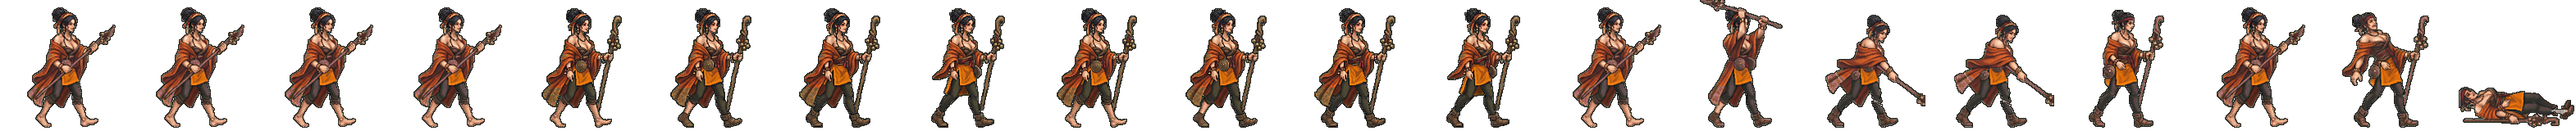
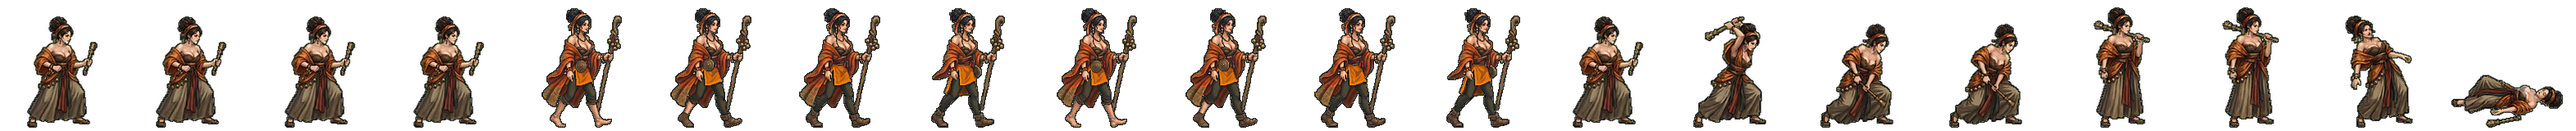
감실 띠: 동작 8컷만 새로 (제미나이 u/1 · 초상만) — 청동 방울 막대·방울 팔찌·주황 겉옷 (걷기는 그대로)
Claude-Session: https://claude.ai/code/session_01TRiuN9kn81xgdziumEqNAF

Changed region(s): [[0.593, 0.0, 1.0, 0.9688], [0.0, 0.0625, 0.2185, 0.9688]]

diff --git a/src/realm/data/spritePx.ts b/src/realm/data/spritePx.ts
@@ -1,2 +1,2 @@
 /** public/realm/anim-px/manifest.json 의 사본 — tools/sprite-normalize.mjs 가 만든다 (손으로 고치지 말 것). 칸 [가로, 세로] · feet = 발 줄(칸 위에서 y) · bodyPx = 서 있는 몸 키 */
-export const SPRITE_PX: Readonly<Record<string, { readonly cell: readonly [number, number]; readonly feet: number; readonly bodyPx: number; readonly kind: 'general' | 'soldier' | 'folk' | 'crowd'; readonly cells: number }>> = {"axe":{"cell":[166,128],"feet":126,"bodyPx":124,"kind":"soldier","cells":20},"bandit-chief":{"cell":[116,128],"feet":126,"bodyPx":117,"kind":"soldier","cells":20},"bandit-club":{"cell":[127,128],"feet":126,"bodyPx":116,"kind":"soldier","cells":20},"boat":{"cell":[269,128],"feet":126,"bodyPx":126,"kind":"soldier","cells":20},"bow":{"cell":[503,128],"feet":126,"bodyPx":127,"kind":"soldier","cells":20},"crossbow":{"cell":[614,128],"feet":126,"bodyPx":126,"kind":"soldier","cells":20},"gen-adogan":{"cell":[144,160],"feet":156,"bodyPx":70,"kind":"general","cells":20},"gen-alpyeong":{"cell":[144,160],"feet":156,"bodyPx":70,"kind":"general","cells":20},"gen-ara":{"cell":[160,160],"feet":156,"bodyPx":70,"kind":"general","cells":20},"gen-areum":{"cell":[160,160],"feet":156,"bodyPx":70,"kind":"general","cells":20},"gen-aryeong":{"cell":[208,160],"feet":156,"bodyPx":70,"kind":"general","cells":20},"gen-bakdal":{"cell":[160,160],"feet":156,"bodyPx":70,"kind":"general","cells":20},"gen-baram":{"cell":[176,160],"feet":156,"bodyPx":70,"kind":"general","cells":20},"gen-bdanbi":{"cell":[152,160],"feet":156,"bodyPx":70,"kind":"general","cells":20},"gen-beom":{"cell":[168,160],"feet":156,"bodyPx":70,"kind":"general","cells":20},"gen-beombal":{"cell":[216,160],"feet":156,"bodyPx":70,"kind":"general","cells":20},"gen-beomi":{"cell":[160,160],"feet":156,"bodyPx":70,"kind":"general","cells":20},"gen-bira":{"cell":[176,160],"feet":156,"bodyPx":70,"kind":"general","cells":20},"gen-biryu":{"cell":[160,160],"feet":156,"bodyPx":73,"kind":"general","cells":20},"gen-budeul":{"cell":[248,160],"feet":156,"bodyPx":70,"kind":"general","cells":20},"gen-byeol":{"cell":[176,160],"feet":156,"bodyPx":70,"kind":"general","cells":20},"gen-daemusin":{"cell":[152,160],"feet":156,"bodyPx":70,"kind":"general","cells":20},"gen-daeso":{"cell":[176,160],"feet":156,"bodyPx":70,"kind":"general","cells":20},"gen-dallae2":{"cell":[168,160],"feet":156,"bodyPx":70,"kind":"general","cells":20},"gen-dalli":{"cell":[152,160],"feet":156,"bodyPx":70,"kind":"general","cells":20},"gen-damul":{"cell":[152,160],"feet":156,"bodyPx":70,"kind":"general","cells":20},"gen-danbi":{"cell":[152,160],"feet":156,"bodyPx":70,"kind":"general","cells":20},"gen-dangung":{"cell":[192,160],"feet":156,"bodyPx":70,"kind":"general","cells":20},"gen-darae":{"cell":[152,160],"feet":156,"bodyPx":70,"kind":"general","cells":20},"gen-dokmudeom":{"cell":[176,160],"feet":156,"bodyPx":70,"kind":"general","cells":20},"gen-duman":{"cell":[248,160],"feet":156,"bodyPx":70,"kind":"general","cells":20},"gen-eomni":{"cell":[160,160],"feet":156,"bodyPx":70,"kind":"general","cells":20},"gen-eureum":{"cell":[144,160],"feet":156,"bodyPx":70,"kind":"general","cells":20},"gen-g-bow":{"cell":[144,160],"feet":156,"bodyPx":70,"kind":"general","cells":20},"gen-g-spear":{"cell":[208,160],"feet":156,"bodyPx":70,"kind":"general","cells":20},"gen-g-sword":{"cell":[192,160],"feet":156,"bodyPx":70,"kind":"general","cells":20},"gen-gaennae":{"cell":[232,160],"feet":156,"bodyPx":70,"kind":"general","cells":20},"gen-gamsil":{"cell":[160,160],"feet":156,"bodyPx":70,"kind":"general","cells":20},"gen-gaon":{"cell":[152,160],"feet":156,"bodyPx":70,"kind":"general","cells":20},"gen-geota":{"cell":[192,160],"feet":156,"bodyPx":69,"kind":"general","cells":20},"gen-geumbawi":{"cell":[160,160],"feet":156,"bodyPx":70,"kind":"general","cells":20},"gen-geumha":{"cell":[192,160],"feet":156,"bodyPx":72,"kind":"general","cells":20},"gen-goeun":{"cell":[144,160],"feet":156,"bodyPx":70,"kind":"general","cells":20},"gen-gom":{"cell":[168,160],"feet":156,"bodyPx":70,"kind":"general","cells":20},"gen-gomok":{"cell":[152,160],"feet":156,"bodyPx":70,"kind":"general","cells":20},"gen-gureum":{"cell":[216,160],"feet":156,"bodyPx":70,"kind":"general","cells":20},"gen-guryema":{"cell":[152,160],"feet":156,"bodyPx":70,"kind":"general","cells":20},"gen-gwaeyu":{"cell":[200,160],"feet":156,"bodyPx":70,"kind":"general","cells":20},"gen-haebi":{"cell":[152,160],"feet":156,"bodyPx":70,"kind":"general","cells":20},"gen-haedal":{"cell":[152,160],"feet":156,"bodyPx":70,"kind":"general","cells":20},"gen-haesol":{"cell":[168,160],"feet":156,"bodyPx":70,"kind":"general","cells":20},"gen-halla":{"cell":[176,160],"feet":156,"bodyPx":70,"kind":"general","cells":20},"gen-heo":{"cell":[144,160],"feet":156,"bodyPx":70,"kind":"general","cells":20},"gen-hneoul":{"cell":[152,160],"feet":156,"bodyPx":70,"kind":"general","cells":20},"gen-hogong":{"cell":[160,160],"feet":156,"bodyPx":70,"kind":"general","cells":20},"gen-hojin":{"cell":[152,160],"feet":156,"bodyPx":70,"kind":"general","cells":20},"gen-horselord":{"cell":[144,160],"feet":156,"bodyPx":70,"kind":"general","cells":20},"gen-hwalmi":{"cell":[192,160],"feet":156,"bodyPx":70,"kind":"general","cells":20},"gen-hyeokgeose":{"cell":[160,160],"feet":156,"bodyPx":70,"kind":"general","cells":20},"gen-hyeopbo":{"cell":[168,160],"feet":156,"bodyPx":70,"kind":"general","cells":20},"gen-irang":{"cell":[160,160],"feet":156,"bodyPx":70,"kind":"general","cells":20},"gen-jibaekho":{"cell":[224,160],"feet":156,"bodyPx":70,"kind":"general","cells":20},"gen-jinha":{"cell":[168,160],"feet":156,"bodyPx":70,"kind":"general","cells":20},"gen-jita":{"cell":[144,160],"feet":156,"bodyPx":70,"kind":"general","cells":20},"gen-jumong":{"cell":[144,160],"feet":156,"bodyPx":70,"kind":"general","cells":20},"gen-keundol":{"cell":[152,160],"feet":156,"bodyPx":70,"kind":"general","cells":20},"gen-maehwa":{"cell":[144,160],"feet":156,"bodyPx":70,"kind":"general","cells":20},"gen-maenun":{"cell":[144,160],"feet":156,"bodyPx":70,"kind":"general","cells":20},"gen-malgalgi":{"cell":[168,160],"feet":156,"bodyPx":70,"kind":"general","cells":20},"gen-mari":{"cell":[152,160],"feet":156,"bodyPx":70,"kind":"general","cells":20},"gen-maro":{"cell":[160,160],"feet":156,"bodyPx":70,"kind":"general","cells":20},"gen-maryeo":{"cell":[152,160],"feet":156,"bodyPx":70,"kind":"general","cells":20},"gen-mdallae":{"cell":[168,160],"feet":156,"bodyPx":70,"kind":"general","cells":20},"gen-mir":{"cell":[144,160],"feet":156,"bodyPx":70,"kind":"general","cells":20},"gen-mount":{"cell":[232,160],"feet":156,"bodyPx":73,"kind":"general","cells":20},"gen-mulbeom":{"cell":[160,160],"feet":156,"bodyPx":70,"kind":"general","cells":20},"gen-mulsae":{"cell":[168,160],"feet":156,"bodyPx":70,"kind":"general","cells":20},"gen-musoe":{"cell":[152,160],"feet":156,"bodyPx":70,"kind":"general","cells":20},"gen-noeul":{"cell":[160,160],"feet":156,"bodyPx":70,"kind":"general","cells":20},"gen-nuri":{"cell":[168,160],"feet":156,"bodyPx":70,"kind":"general","cells":20},"gen-ocheongan":{"cell":[168,160],"feet":156,"bodyPx":70,"kind":"general","cells":20},"gen-odi":{"cell":[152,160],"feet":156,"bodyPx":70,"kind":"general","cells":20},"gen-odogan":{"cell":[168,160],"feet":156,"bodyPx":70,"kind":"general","cells":20},"gen-ogan":{"cell":[152,160],"feet":156,"bodyPx":70,"kind":"general","cells":20},"gen-oi":{"cell":[152,160],"feet":156,"bodyPx":70,"kind":"general","cells":20},"gen-olddaeso":{"cell":[144,160],"feet":156,"bodyPx":70,"kind":"general","cells":20},"gen-onjo":{"cell":[152,160],"feet":156,"bodyPx":70,"kind":"general","cells":20},"gen-pidogan":{"cell":[152,160],"feet":156,"bodyPx":70,"kind":"general","cells":20},"gen-sagong":{"cell":[160,160],"feet":156,"bodyPx":70,"kind":"general","cells":20},"gen-sdallae":{"cell":[168,160],"feet":156,"bodyPx":70,"kind":"general","cells":20},"gen-sincheongan":{"cell":[168,160],"feet":156,"bodyPx":70,"kind":"general","cells":20},"gen-singwigan":{"cell":[208,160],"feet":156,"bodyPx":70,"kind":"general","cells":20},"gen-sinneoul":{"cell":[176,160],"feet":156,"bodyPx":70,"kind":"general","cells":20},"gen-sobeol":{"cell":[152,160],"feet":156,"bodyPx":70,"kind":"general","cells":20},"gen-soebi":{"cell":[160,160],"feet":156,"bodyPx":70,"kind":"general","cells":20},"gen-soebo":{"cell":[208,160],"feet":156,"bodyPx":72,"kind":"general","cells":20},"gen-soenun":{"cell":[248,160],"feet":156,"bodyPx":70,"kind":"general","cells":20},"gen-sogeumbi":{"cell":[232,160],"feet":156,"bodyPx":70,"kind":"general","cells":20},"gen-songbi":{"cell":[152,160],"feet":156,"bodyPx":70,"kind":"general","cells":20},"gen-songyang":{"cell":[136,160],"feet":156,"bodyPx":70,"kind":"general","cells":20},"gen-sori":{"cell":[208,160],"feet":156,"bodyPx":70,"kind":"general","cells":20},"gen-soseono":{"cell":[208,160],"feet":156,"bodyPx":70,"kind":"general","cells":20},"gen-suro":{"cell":[160,160],"feet":156,"bodyPx":70,"kind":"general","cells":20},"gen-tahae":{"cell":[152,160],"feet":156,"bodyPx":70,"kind":"general","cells":20},"gen-tneoul":{"cell":[152,160],"feet":156,"bodyPx":70,"kind":"general","cells":20},"gen-w-bow":{"cell":[144,160],"feet":156,"bodyPx":70,"kind":"general","cells":20},"gen-w-spear":{"cell":[176,160],"feet":156,"bodyPx":70,"kind":"general","cells":20},"gen-waechief":{"cell":[152,160],"feet":156,"bodyPx":70,"kind":"general","cells":20},"gen-wan":{"cell":[144,160],"feet":156,"bodyPx":70,"kind":"general","cells":20},"gen-yeodogan":{"cell":[176,160],"feet":156,"bodyPx":70,"kind":"general","cells":20},"gen-yucheongan":{"cell":[168,160],"feet":156,"bodyPx":70,"kind":"general","cells":20},"gen-yusugan":{"cell":[168,160],"feet":156,"bodyPx":70,"kind":"general","cells":20},"horse":{"cell":[186,128],"feet":126,"bodyPx":127,"kind":"soldier","cells":20},"marine":{"cell":[298,128],"feet":126,"bodyPx":126,"kind":"soldier","cells":20},"migrant":{"cell":[82,128],"feet":126,"bodyPx":114,"kind":"folk","cells":8},"militia":{"cell":[134,128],"feet":126,"bodyPx":119,"kind":"soldier","cells":20},"pike":{"cell":[380,128],"feet":126,"bodyPx":124,"kind":"soldier","cells":20},"pirate-captain":{"cell":[114,128],"feet":126,"bodyPx":115,"kind":"soldier","cells":20},"pirate-sword":{"cell":[122,128],"feet":126,"bodyPx":114,"kind":"soldier","cells":20},"shield":{"cell":[254,128],"feet":126,"bodyPx":128,"kind":"soldier","cells":20},"spear":{"cell":[438,128],"feet":126,"bodyPx":126,"kind":"soldier","cells":20},"villager-builder":{"cell":[88,128],"feet":126,"bodyPx":113,"kind":"folk","cells":8},"villager-farmer":{"cell":[100,128],"feet":126,"bodyPx":115,"kind":"folk","cells":8},"villager-porter":{"cell":[108,128],"feet":126,"bodyPx":115,"kind":"folk","cells":8},"villager-woman":{"cell":[63,128],"feet":126,"bodyPx":113,"kind":"folk","cells":8},"crowd-b1":{"cell":[69,96],"feet":96,"bodyPx":96,"kind":"crowd","cells":1},"crowd-b2":{"cell":[54,96],"feet":96,"bodyPx":96,"kind":"crowd","cells":1},"crowd-b3":{"cell":[47,96],"feet":96,"bodyPx":96,"kind":"crowd","cells":1},"crowd-b4":{"cell":[49,96],"feet":96,"bodyPx":96,"kind":"crowd","cells":1},"crowd-b5":{"cell":[57,96],"feet":96,"bodyPx":96,"kind":"crowd","cells":1},"crowd-b6":{"cell":[55,96],"feet":96,"bodyPx":96,"kind":"crowd","cells":1},"crowd-f1":{"cell":[69,96],"feet":96,"bodyPx":96,"kind":"crowd","cells":1},"crowd-f2":{"cell":[55,96],"feet":96,"bodyPx":96,"kind":"crowd","cells":1},"crowd-f3":{"cell":[45,96],"feet":96,"bodyPx":96,"kind":"crowd","cells":1},"crowd-f4":{"cell":[53,96],"feet":96,"bodyPx":96,"kind":"crowd","cells":1},"crowd-f5":{"cell":[69,96],"feet":96,"bodyPx":96,"kind":"crowd","cells":1},"crowd-f6":{"cell":[64,96],"feet":96,"bodyPx":96,"kind":"crowd","cells":1},"gen-dalbit":{"cell":[96,72],"feet":72,"bodyPx":72,"kind":"general","cells":20}}
+export const SPRITE_PX: Readonly<Record<string, { readonly cell: readonly [number, number]; readonly feet: number; readonly bodyPx: number; readonly kind: 'general' | 'soldier' | 'folk' | 'crowd'; readonly cells: number }>> = {"axe":{"cell":[166,128],"feet":126,"bodyPx":124,"kind":"soldier","cells":20},"bandit-chief":{"cell":[116,128],"feet":126,"bodyPx":117,"kind":"soldier","cells":20},"bandit-club":{"cell":[127,128],"feet":126,"bodyPx":116,"kind":"soldier","cells":20},"boat":{"cell":[269,128],"feet":126,"bodyPx":126,"kind":"soldier","cells":20},"bow":{"cell":[503,128],"feet":126,"bodyPx":127,"kind":"soldier","cells":20},"crossbow":{"cell":[614,128],"feet":126,"bodyPx":126,"kind":"soldier","cells":20},"gen-adogan":{"cell":[144,160],"feet":156,"bodyPx":70,"kind":"general","cells":20},"gen-alpyeong":{"cell":[144,160],"feet":156,"bodyPx":70,"kind":"general","cells":20},"gen-ara":{"cell":[160,160],"feet":156,"bodyPx":70,"kind":"general","cells":20},"gen-areum":{"cell":[160,160],"feet":156,"bodyPx":70,"kind":"general","cells":20},"gen-aryeong":{"cell":[208,160],"feet":156,"bodyPx":70,"kind":"general","cells":20},"gen-bakdal":{"cell":[160,160],"feet":156,"bodyPx":70,"kind":"general","cells":20},"gen-baram":{"cell":[176,160],"feet":156,"bodyPx":70,"kind":"general","cells":20},"gen-bdanbi":{"cell":[152,160],"feet":156,"bodyPx":70,"kind":"general","cells":20},"gen-beom":{"cell":[168,160],"feet":156,"bodyPx":70,"kind":"general","cells":20},"gen-beombal":{"cell":[216,160],"feet":156,"bodyPx":70,"kind":"general","cells":20},"gen-beomi":{"cell":[160,160],"feet":156,"bodyPx":70,"kind":"general","cells":20},"gen-bira":{"cell":[176,160],"feet":156,"bodyPx":70,"kind":"general","cells":20},"gen-biryu":{"cell":[160,160],"feet":156,"bodyPx":73,"kind":"general","cells":20},"gen-budeul":{"cell":[248,160],"feet":156,"bodyPx":70,"kind":"general","cells":20},"gen-byeol":{"cell":[176,160],"feet":156,"bodyPx":70,"kind":"general","cells":20},"gen-daemusin":{"cell":[152,160],"feet":156,"bodyPx":70,"kind":"general","cells":20},"gen-daeso":{"cell":[176,160],"feet":156,"bodyPx":70,"kind":"general","cells":20},"gen-dallae2":{"cell":[168,160],"feet":156,"bodyPx":70,"kind":"general","cells":20},"gen-dalli":{"cell":[152,160],"feet":156,"bodyPx":70,"kind":"general","cells":20},"gen-damul":{"cell":[152,160],"feet":156,"bodyPx":70,"kind":"general","cells":20},"gen-danbi":{"cell":[152,160],"feet":156,"bodyPx":70,"kind":"general","cells":20},"gen-dangung":{"cell":[192,160],"feet":156,"bodyPx":70,"kind":"general","cells":20},"gen-darae":{"cell":[152,160],"feet":156,"bodyPx":70,"kind":"general","cells":20},"gen-dokmudeom":{"cell":[176,160],"feet":156,"bodyPx":70,"kind":"general","cells":20},"gen-duman":{"cell":[248,160],"feet":156,"bodyPx":70,"kind":"general","cells":20},"gen-eomni":{"cell":[160,160],"feet":156,"bodyPx":70,"kind":"general","cells":20},"gen-eureum":{"cell":[144,160],"feet":156,"bodyPx":70,"kind":"general","cells":20},"gen-g-bow":{"cell":[144,160],"feet":156,"bodyPx":70,"kind":"general","cells":20},"gen-g-spear":{"cell":[208,160],"feet":156,"bodyPx":70,"kind":"general","cells":20},"gen-g-sword":{"cell":[192,160],"feet":156,"bodyPx":70,"kind":"general","cells":20},"gen-gaennae":{"cell":[232,160],"feet":156,"bodyPx":70,"kind":"general","cells":20},"gen-gamsil":{"cell":[152,160],"feet":156,"bodyPx":70,"kind":"general","cells":20},"gen-gaon":{"cell":[152,160],"feet":156,"bodyPx":70,"kind":"general","cells":20},"gen-geota":{"cell":[192,160],"feet":156,"bodyPx":69,"kind":"general","cells":20},"gen-geumbawi":{"cell":[160,160],"feet":156,"bodyPx":70,"kind":"general","cells":20},"gen-geumha":{"cell":[192,160],"feet":156,"bodyPx":72,"kind":"general","cells":20},"gen-goeun":{"cell":[144,160],"feet":156,"bodyPx":70,"kind":"general","cells":20},"gen-gom":{"cell":[168,160],"feet":156,"bodyPx":70,"kind":"general","cells":20},"gen-gomok":{"cell":[152,160],"feet":156,"bodyPx":70,"kind":"general","cells":20},"gen-gureum":{"cell":[216,160],"feet":156,"bodyPx":70,"kind":"general","cells":20},"gen-guryema":{"cell":[152,160],"feet":156,"bodyPx":70,"kind":"general","cells":20},"gen-gwaeyu":{"cell":[200,160],"feet":156,"bodyPx":70,"kind":"general","cells":20},"gen-haebi":{"cell":[152,160],"feet":156,"bodyPx":70,"kind":"general","cells":20},"gen-haedal":{"cell":[152,160],"feet":156,"bodyPx":70,"kind":"general","cells":20},"gen-haesol":{"cell":[168,160],"feet":156,"bodyPx":70,"kind":"general","cells":20},"gen-halla":{"cell":[176,160],"feet":156,"bodyPx":70,"kind":"general","cells":20},"gen-heo":{"cell":[144,160],"feet":156,"bodyPx":70,"kind":"general","cells":20},"gen-hneoul":{"cell":[152,160],"feet":156,"bodyPx":70,"kind":"general","cells":20},"gen-hogong":{"cell":[160,160],"feet":156,"bodyPx":70,"kind":"general","cells":20},"gen-hojin":{"cell":[152,160],"feet":156,"bodyPx":70,"kind":"general","cells":20},"gen-horselord":{"cell":[144,160],"feet":156,"bodyPx":70,"kind":"general","cells":20},"gen-hwalmi":{"cell":[192,160],"feet":156,"bodyPx":70,"kind":"general","cells":20},"gen-hyeokgeose":{"cell":[160,160],"feet":156,"bodyPx":70,"kind":"general","cells":20},"gen-hyeopbo":{"cell":[168,160],"feet":156,"bodyPx":70,"kind":"general","cells":20},"gen-irang":{"cell":[160,160],"feet":156,"bodyPx":70,"kind":"general","cells":20},"gen-jibaekho":{"cell":[224,160],"feet":156,"bodyPx":70,"kind":"general","cells":20},"gen-jinha":{"cell":[168,160],"feet":156,"bodyPx":70,"kind":"general","cells":20},"gen-jita":{"cell":[144,160],"feet":156,"bodyPx":70,"kind":"general","cells":20},"gen-jumong":{"cell":[144,160],"feet":156,"bodyPx":70,"kind":"general","cells":20},"gen-keundol":{"cell":[152,160],"feet":156,"bodyPx":70,"kind":"general","cells":20},"gen-maehwa":{"cell":[144,160],"feet":156,"bodyPx":70,"kind":"general","cells":20},"gen-maenun":{"cell":[144,160],"feet":156,"bodyPx":70,"kind":"general","cells":20},"gen-malgalgi":{"cell":[168,160],"feet":156,"bodyPx":70,"kind":"general","cells":20},"gen-mari":{"cell":[152,160],"feet":156,"bodyPx":70,"kind":"general","cells":20},"gen-maro":{"cell":[160,160],"feet":156,"bodyPx":70,"kind":"general","cells":20},"gen-maryeo":{"cell":[152,160],"feet":156,"bodyPx":70,"kind":"general","cells":20},"gen-mdallae":{"cell":[168,160],"feet":156,"bodyPx":70,"kind":"general","cells":20},"gen-mir":{"cell":[144,160],"feet":156,"bodyPx":70,"kind":"general","cells":20},"gen-mount":{"cell":[232,160],"feet":156,"bodyPx":73,"kind":"general","cells":20},"gen-mulbeom":{"cell":[160,160],"feet":156,"bodyPx":70,"kind":"general","cells":20},"gen-mulsae":{"cell":[168,160],"feet":156,"bodyPx":70,"kind":"general","cells":20},"gen-musoe":{"cell":[152,160],"feet":156,"bodyPx":70,"kind":"general","cells":20},"gen-noeul":{"cell":[160,160],"feet":156,"bodyPx":70,"kind":"general","cells":20},"gen-nuri":{"cell":[168,160],"feet":156,"bodyPx":70,"kind":"general","cells":20},"gen-ocheongan":{"cell":[168,160],"feet":156,"bodyPx":70,"kind":"general","cells":20},"gen-odi":{"cell":[152,160],"feet":156,"bodyPx":70,"kind":"general","cells":20},"gen-odogan":{"cell":[168,160],"feet":156,"bodyPx":70,"kind":"general","cells":20},"gen-ogan":{"cell":[152,160],"feet":156,"bodyPx":70,"kind":"general","cells":20},"gen-oi":{"cell":[152,160],"feet":156,"bodyPx":70,"kind":"general","cells":20},"gen-olddaeso":{"cell":[144,160],"feet":156,"bodyPx":70,"kind":"general","cells":20},"gen-onjo":{"cell":[152,160],"feet":156,"bodyPx":70,"kind":"general","cells":20},"gen-pidogan":{"cell":[152,160],"feet":156,"bodyPx":70,"kind":"general","cells":20},"gen-sagong":{"cell":[160,160],"feet":156,"bodyPx":70,"kind":"general","cells":20},"gen-sdallae":{"cell":[168,160],"feet":156,"bodyPx":70,"kind":"general","cells":20},"gen-sincheongan":{"cell":[168,160],"feet":156,"bodyPx":70,"kind":"general","cells":20},"gen-singwigan":{"cell":[208,160],"feet":156,"bodyPx":70,"kind":"general","cells":20},"gen-sinneoul":{"cell":[176,160],"feet":156,"bodyPx":70,"kind":"general","cells":20},"gen-sobeol":{"cell":[152,160],"feet":156,"bodyPx":70,"kind":"general","cells":20},"gen-soebi":{"cell":[160,160],"feet":156,"bodyPx":70,"kind":"general","cells":20},"gen-soebo":{"cell":[208,160],"feet":156,"bodyPx":72,"kind":"general","cells":20},"gen-soenun":{"cell":[248,160],"feet":156,"bodyPx":70,"kind":"general","cells":20},"gen-sogeumbi":{"cell":[232,160],"feet":156,"bodyPx":70,"kind":"general","cells":20},"gen-songbi":{"cell":[152,160],"feet":156,"bodyPx":70,"kind":"general","cells":20},"gen-songyang":{"cell":[136,160],"feet":156,"bodyPx":70,"kind":"general","cells":20},"gen-sori":{"cell":[208,160],"feet":156,"bodyPx":70,"kind":"general","cells":20},"gen-soseono":{"cell":[208,160],"feet":156,"bodyPx":70,"kind":"general","cells":20},"gen-suro":{"cell":[160,160],"feet":156,"bodyPx":70,"kind":"general","cells":20},"gen-tahae":{"cell":[152,160],"feet":156,"bodyPx":70,"kind":"general","cells":20},"gen-tneoul":{"cell":[152,160],"feet":156,"bodyPx":70,"kind":"general","cells":20},"gen-w-bow":{"cell":[144,160],"feet":156,"bodyPx":70,"kind":"general","cells":20},"gen-w-spear":{"cell":[176,160],"feet":156,"bodyPx":70,"kind":"general","cells":20},"gen-waechief":{"cell":[152,160],"feet":156,"bodyPx":70,"kind":"general","cells":20},"gen-wan":{"cell":[144,160],"feet":156,"bodyPx":70,"kind":"general","cells":20},"gen-yeodogan":{"cell":[176,160],"feet":156,"bodyPx":70,"kind":"general","cells":20},"gen-yucheongan":{"cell":[168,160],"feet":156,"bodyPx":70,"kind":"general","cells":20},"gen-yusugan":{"cell":[168,160],"feet":156,"bodyPx":70,"kind":"general","cells":20},"horse":{"cell":[186,128],"feet":126,"bodyPx":127,"kind":"soldier","cells":20},"marine":{"cell":[298,128],"feet":126,"bodyPx":126,"kind":"soldier","cells":20},"migrant":{"cell":[82,128],"feet":126,"bodyPx":114,"kind":"folk","cells":8},"militia":{"cell":[134,128],"feet":126,"bodyPx":119,"kind":"soldier","cells":20},"pike":{"cell":[380,128],"feet":126,"bodyPx":124,"kind":"soldier","cells":20},"pirate-captain":{"cell":[114,128],"feet":126,"bodyPx":115,"kind":"soldier","cells":20},"pirate-sword":{"cell":[122,128],"feet":126,"bodyPx":114,"kind":"soldier","cells":20},"shield":{"cell":[254,128],"feet":126,"bodyPx":128,"kind":"soldier","cells":20},"spear":{"cell":[438,128],"feet":126,"bodyPx":126,"kind":"soldier","cells":20},"villager-builder":{"cell":[88,128],"feet":126,"bodyPx":113,"kind":"folk","cells":8},"villager-farmer":{"cell":[100,128],"feet":126,"bodyPx":115,"kind":"folk","cells":8},"villager-porter":{"cell":[108,128],"feet":126,"bodyPx":115,"kind":"folk","cells":8},"villager-woman":{"cell":[63,128],"feet":126,"bodyPx":113,"kind":"folk","cells":8},"crowd-b1":{"cell":[69,96],"feet":96,"bodyPx":96,"kind":"crowd","cells":1},"crowd-b2":{"cell":[54,96],"feet":96,"bodyPx":96,"kind":"crowd","cells":1},"crowd-b3":{"cell":[47,96],"feet":96,"bodyPx":96,"kind":"crowd","cells":1},"crowd-b4":{"cell":[49,96],"feet":96,"bodyPx":96,"kind":"crowd","cells":1},"crowd-b5":{"cell":[57,96],"feet":96,"bodyPx":96,"kind":"crowd","cells":1},"crowd-b6":{"cell":[55,96],"feet":96,"bodyPx":96,"kind":"crowd","cells":1},"crowd-f1":{"cell":[69,96],"feet":96,"bodyPx":96,"kind":"crowd","cells":1},"crowd-f2":{"cell":[55,96],"feet":96,"bodyPx":96,"kind":"crowd","cells":1},"crowd-f3":{"cell":[45,96],"feet":96,"bodyPx":96,"kind":"crowd","cells":1},"crowd-f4":{"cell":[53,96],"feet":96,"bodyPx":96,"kind":"crowd","cells":1},"crowd-f5":{"cell":[69,96],"feet":96,"bodyPx":96,"kind":"crowd","cells":1},"crowd-f6":{"cell":[64,96],"feet":96,"bodyPx":96,"kind":"crowd","cells":1},"gen-dalbit":{"cell":[96,72],"feet":72,"bodyPx":72,"kind":"general","cells":20}}

diff --git a/src/realm/data/art.ts b/src/realm/data/art.ts
@@ -496,7 +496,7 @@ export const GEN_ANIM: Readonly<Partial<Record<string, { ar: number; body: numbe
   soebi: { ar: 156 / 160, body: 0.906 }, // 11-08 초상대로 다시 (형: 「투구 쓰고 원본과 다르다」 · 제미나이 걷기 4×2 + 동작 4×2 → 20컷 · assets_src/realm/gemini/generals2) · 쇠 덩이 묶음 대신 큰 쇠망치
   ara: { ar: 158 / 160, body: 0.906 }, // 11-08 초상대로 다시 (형: 「투구 쓰고 원본과 다르다」 · 제미나이 걷기 4×2 + 동작 4×2 → 20컷 · assets_src/realm/gemini/generals2) · 11-08 처음 · ara 동작 띠 다시 — 형이 구움 (굽기 꾸러미 · 검수 1·3번)
   heo: { ar: 145 / 160, body: 0.900 }, // 11-08 초상대로 다시 (형: 「투구 쓰고 원본과 다르다」 · 제미나이 걷기 4×2 + 동작 4×2 → 20컷 · assets_src/realm/gemini/generals2) · 갑옷 대신 보석 윗옷·트임 치마 (형: 전투 옷은 더 드러나게)
-  gamsil: { ar: 157 / 160, body: 0.906 }, // 11-08 초상대로 다시 (형: 「투구 쓰고 원본과 다르다」 · 제미나이 걷기 4×2 + 동작 4×2 → 20컷 · assets_src/realm/gemini/generals2) · 어깨 내린 주황 겉옷·짧은 치마 (형: 전투 옷은 더 드러나게)
+  gamsil: { ar: 157 / 160, body: 0.906 }, // 11-11 동작 8컷만 새로(제미나이 u/1 · 초상만 · 청동 방울 막대 + 방울 팔찌·주황 겉옷, 걷기는 그대로) · 11-08 초상대로 다시 (형: 「투구 쓰고 원본과 다르다」 · 제미나이 걷기 4×2 + 동작 4×2 → 20컷 · assets_src/realm/gemini/generals2) · 어깨 내린 주황 겉옷·짧은 치마 (형: 전투 옷은 더 드러나게)
   irang: { ar: 164 / 160, body: 0.900 }, // 11-08 초상대로 다시 (형: 「투구 쓰고 원본과 다르다」 · 제미나이 걷기 4×2 + 동작 4×2 → 20컷 · assets_src/realm/gemini/generals2) · 11-08 처음 · 문신 팔·구슬 목걸이·가죽 조끼 · 청동 단검 찌르기
   gureum: { ar: 238 / 160, body: 0.900 }, // 11-11 동작 8컷만 새로(제미나이 u/1 · 초상만 · 창 전체가 칸 안, 걷기는 그대로) · 11-08 초상대로 다시 (형: 「투구 쓰고 원본과 다르다」 · 제미나이 걷기 4×2 + 동작 4×2 → 20컷 · assets_src/realm/gemini/generals2) · 11-08 처음 · 흰 삼베 짧은 윗옷·트임 치마 (형: 전투 옷은 더 드러나게)
   biryu: { ar: 168 / 160, body: 0.963, mount: true }, // 11-08 초상대로 다시 (형: 「투구 쓰고 원본과 다르다」 · 제미나이 걷기 4×2 + 동작 4×2 → 20컷 · assets_src/realm/gemini/generals2) · 11-08 처음 · 말 탄 장수 · 상투·붉은 민소매·큰 망치 내려치기

diff --git a/src/ui/realm/battle-strikes.ts b/src/ui/realm/battle-strikes.ts
@@ -139,7 +139,7 @@ const CONTACT: Readonly<Record<string, [number, number, number]>> = {
   marine: [15, .99, .40], militia: [14, .98, .33],
   'gen-g-spear': [15, .97, .35], 'gen-g-sword': [16, .99, .67], 'gen-w-spear': [14, .98, .56],
   'gen-mount': [15, .98, .22], 'gen-ara': [14, 0.91, 0.65], 'gen-aryeong': [14, 0.99, 0.34],
-  'gen-daeso': [14, 0.95, 0.34], 'gen-eureum': [14, .95, .13], 'gen-gamsil': [14, 0.94, 0.76],
+  'gen-daeso': [14, 0.95, 0.34], 'gen-eureum': [14, .95, .13], 'gen-gamsil': [14, .69, .75],
   'gen-haebi': [14, 0.87, 0.73], 'gen-heo': [14, 0.94, 0.46], 'gen-hyeokgeose': [14, 0.83, 0.94],
   'gen-hyeopbo': [14, .93, .21], 'gen-malgalgi': [14, 0.88, 0.28], 'gen-mari': [14, .98, .47],
   'gen-oi': [14, .98, .48], 'gen-onjo': [14, 0.83, 0.93], 'gen-soebi': [14, 0.80, 0.95],
